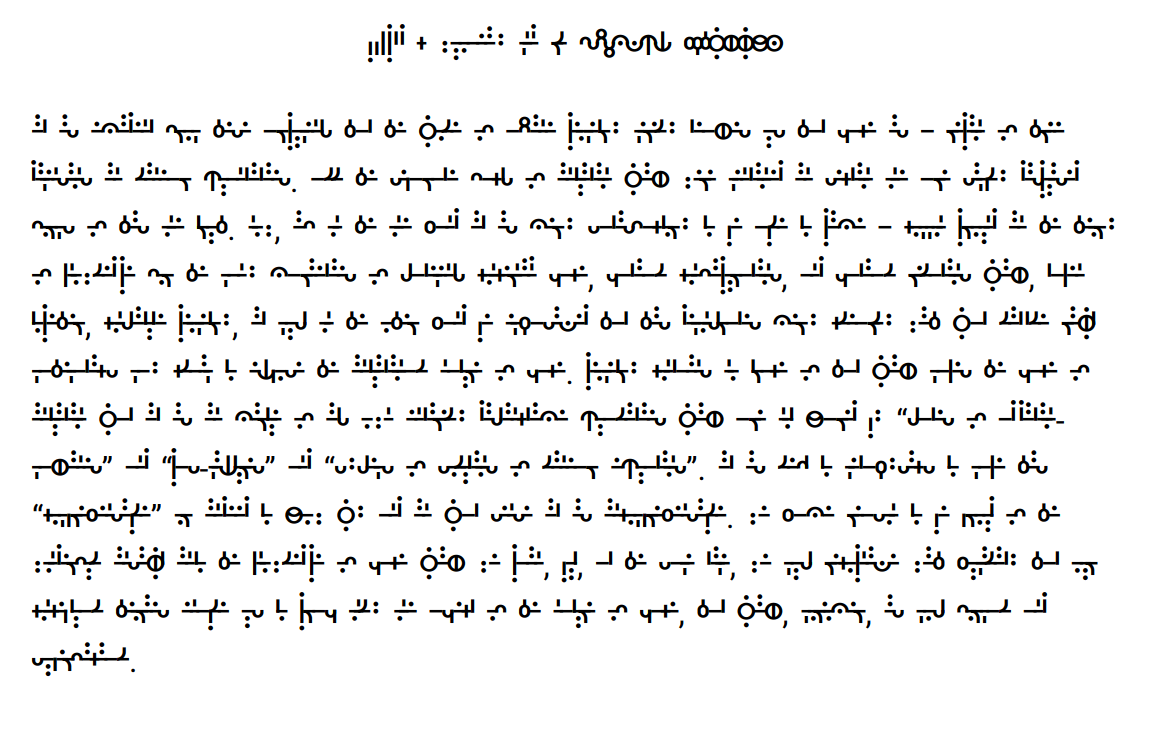
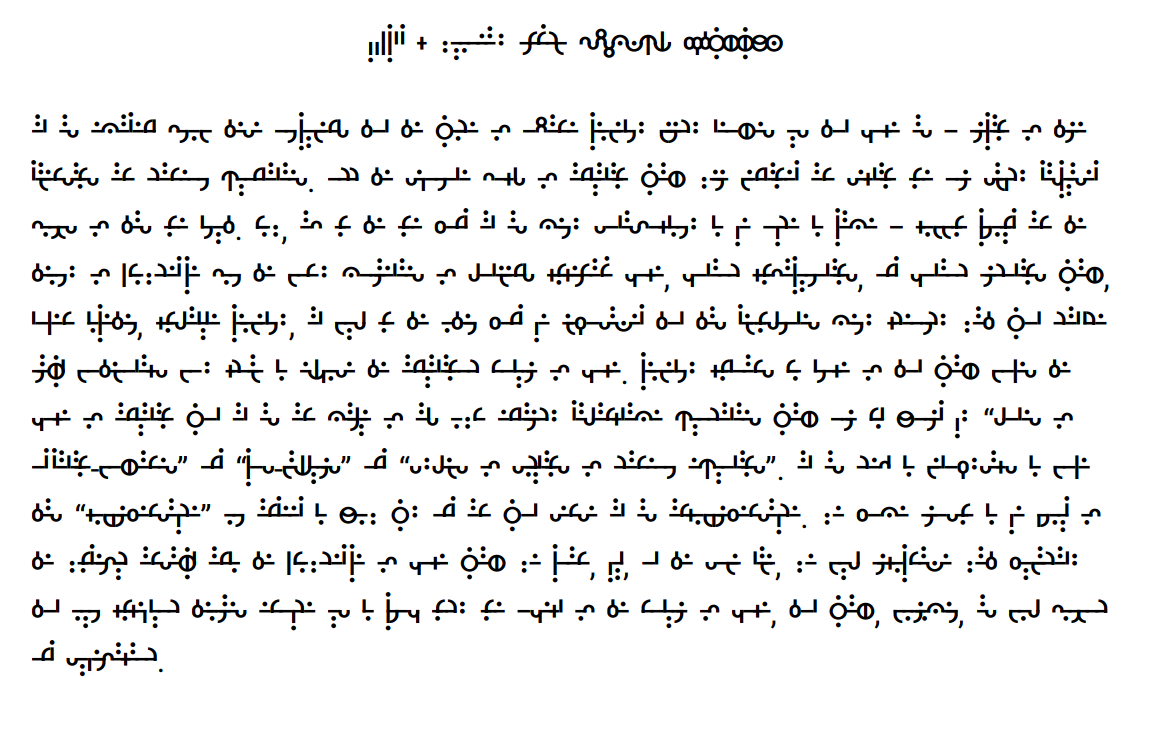
Reform m/n/l/r with curves

Changed region(s): [[0.0312, 0.1562, 0.9688, 0.9062], [0.4375, 0.0312, 0.6875, 0.0938], [0.3125, 0.0312, 0.375, 0.0938]]

diff --git a/specimen/specimen.html b/specimen/specimen.html
@@ -55,7 +55,7 @@
   </head>
   <body>
     <section class="affine" style="line-height: 1;text-align: center;">
-      <p>bpkgtd c wuoaeiy mnng rl fsffssvzqx hphthwhchghshj</p>
+      <p>bpkgtd c wuoaeiy rnnglm fsffssvzqx hphthwhchghshj</p>
     </section>
 
     <div class="screen-two-up">
